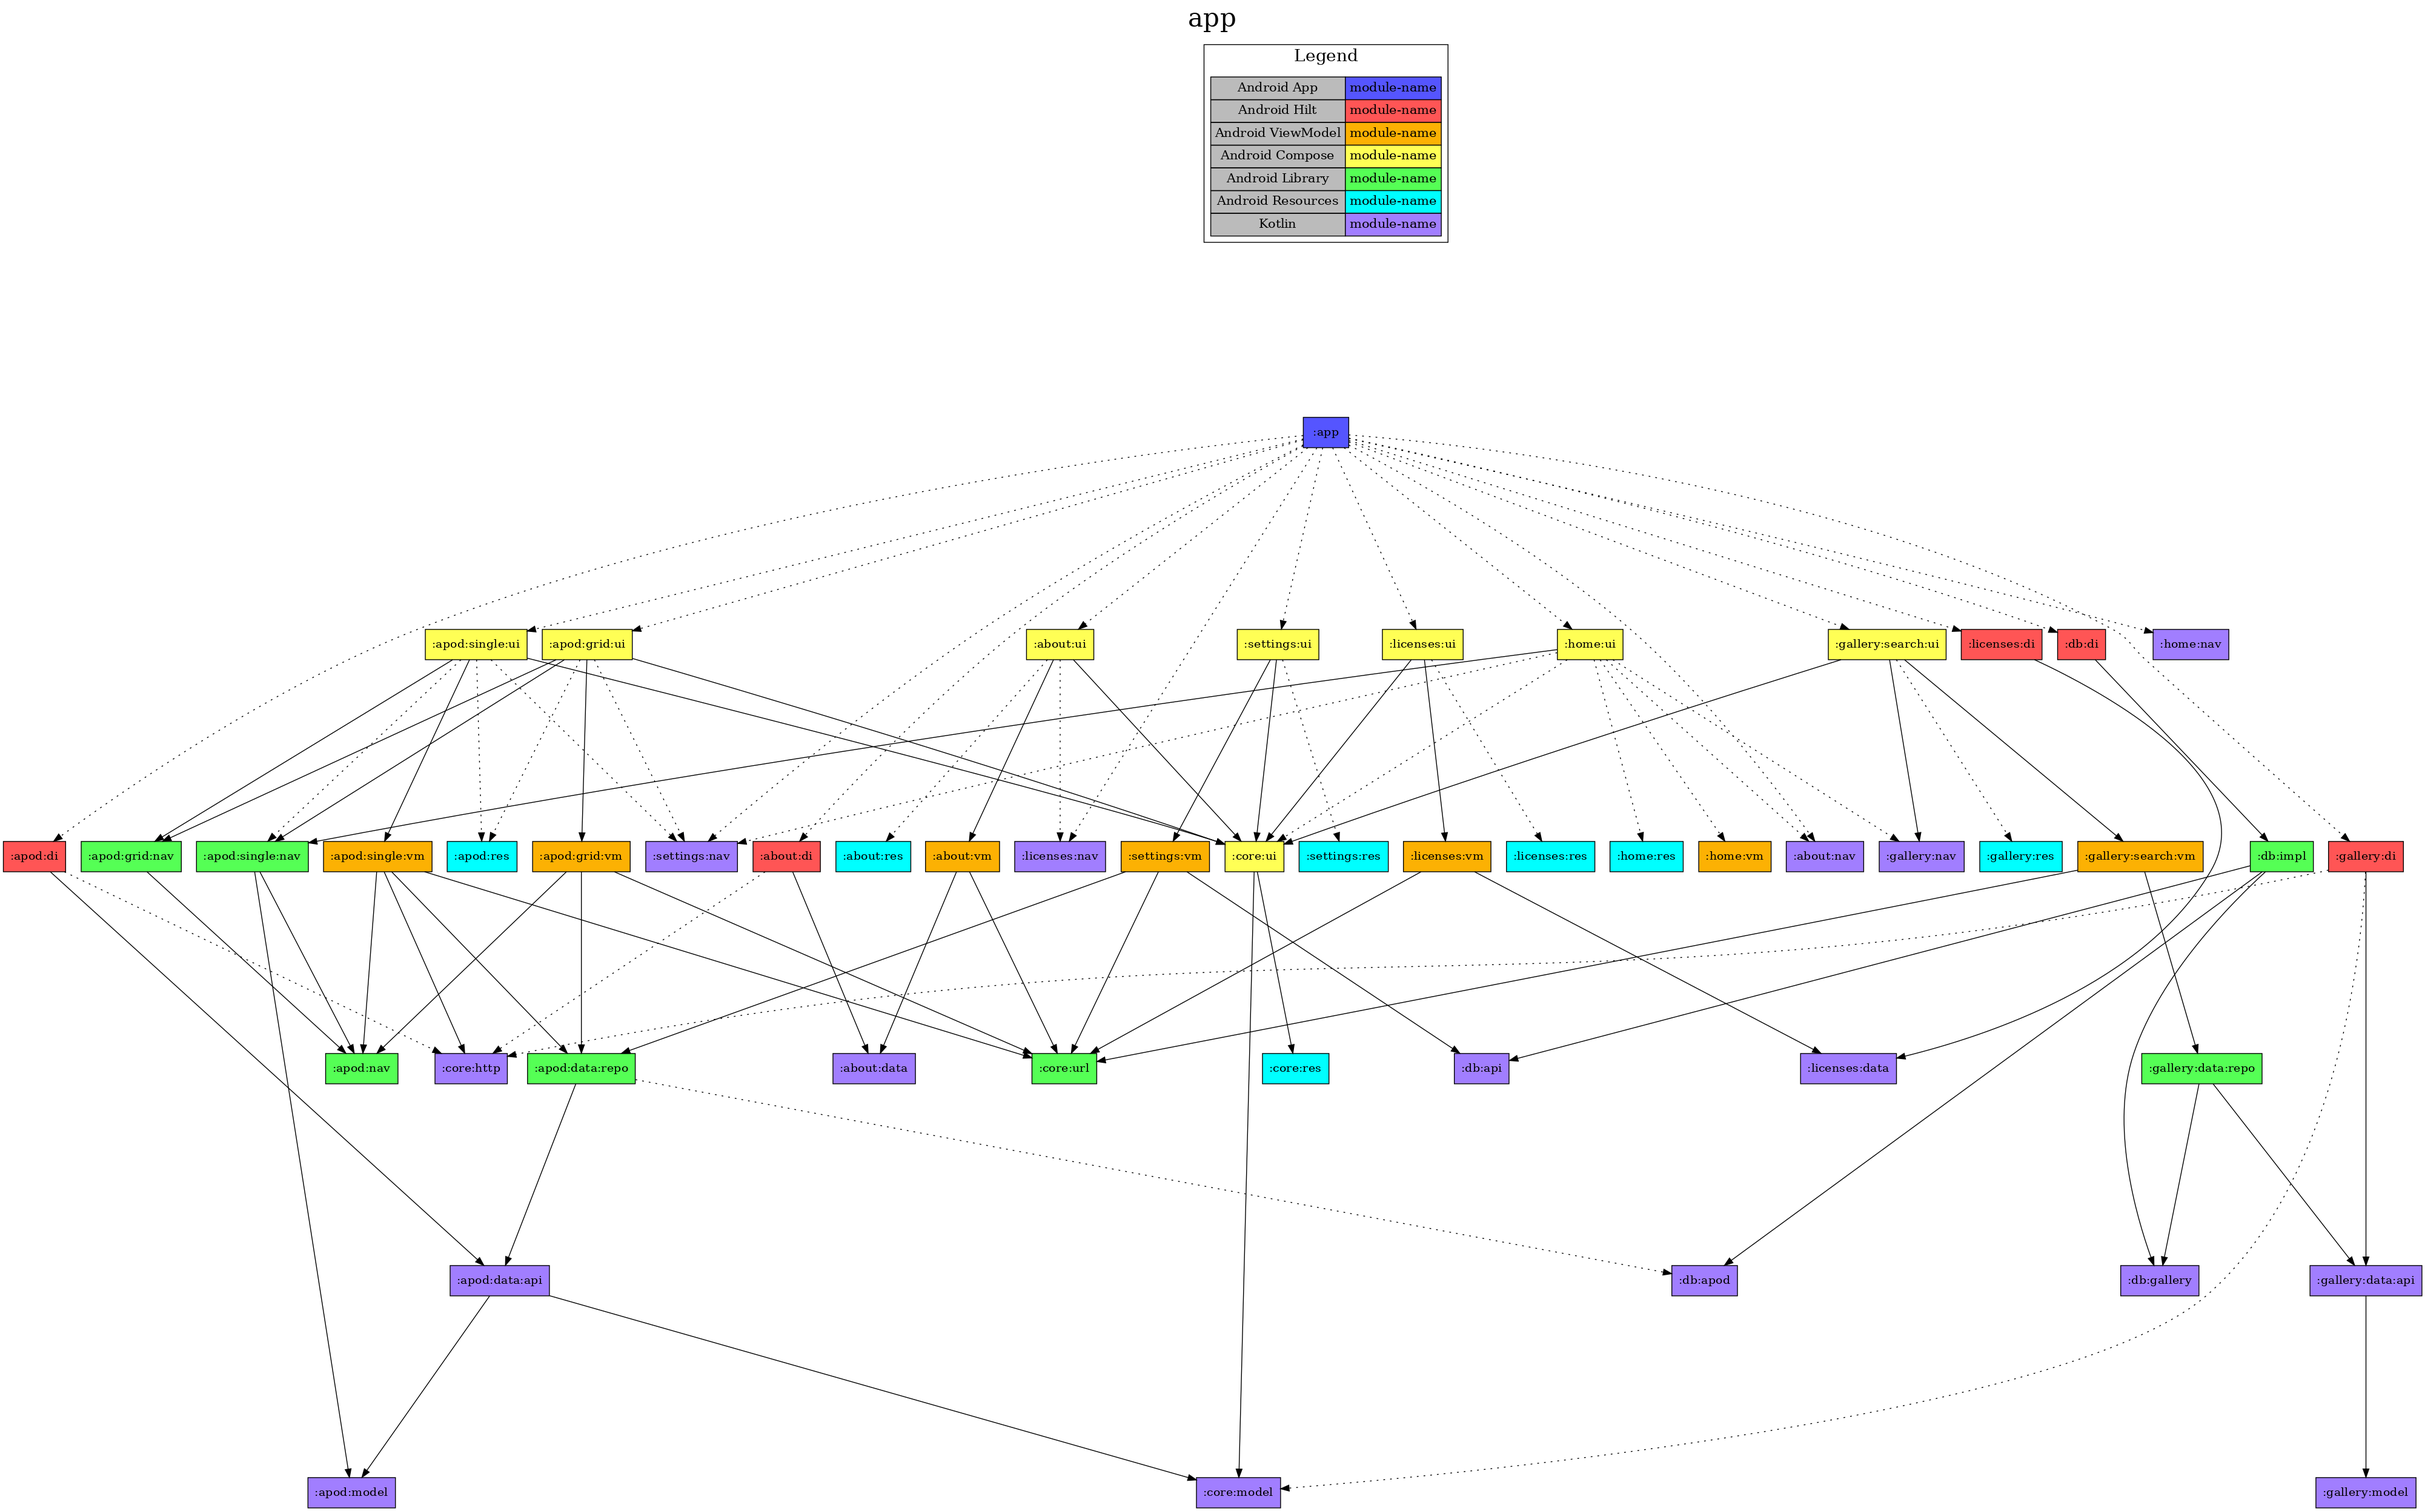
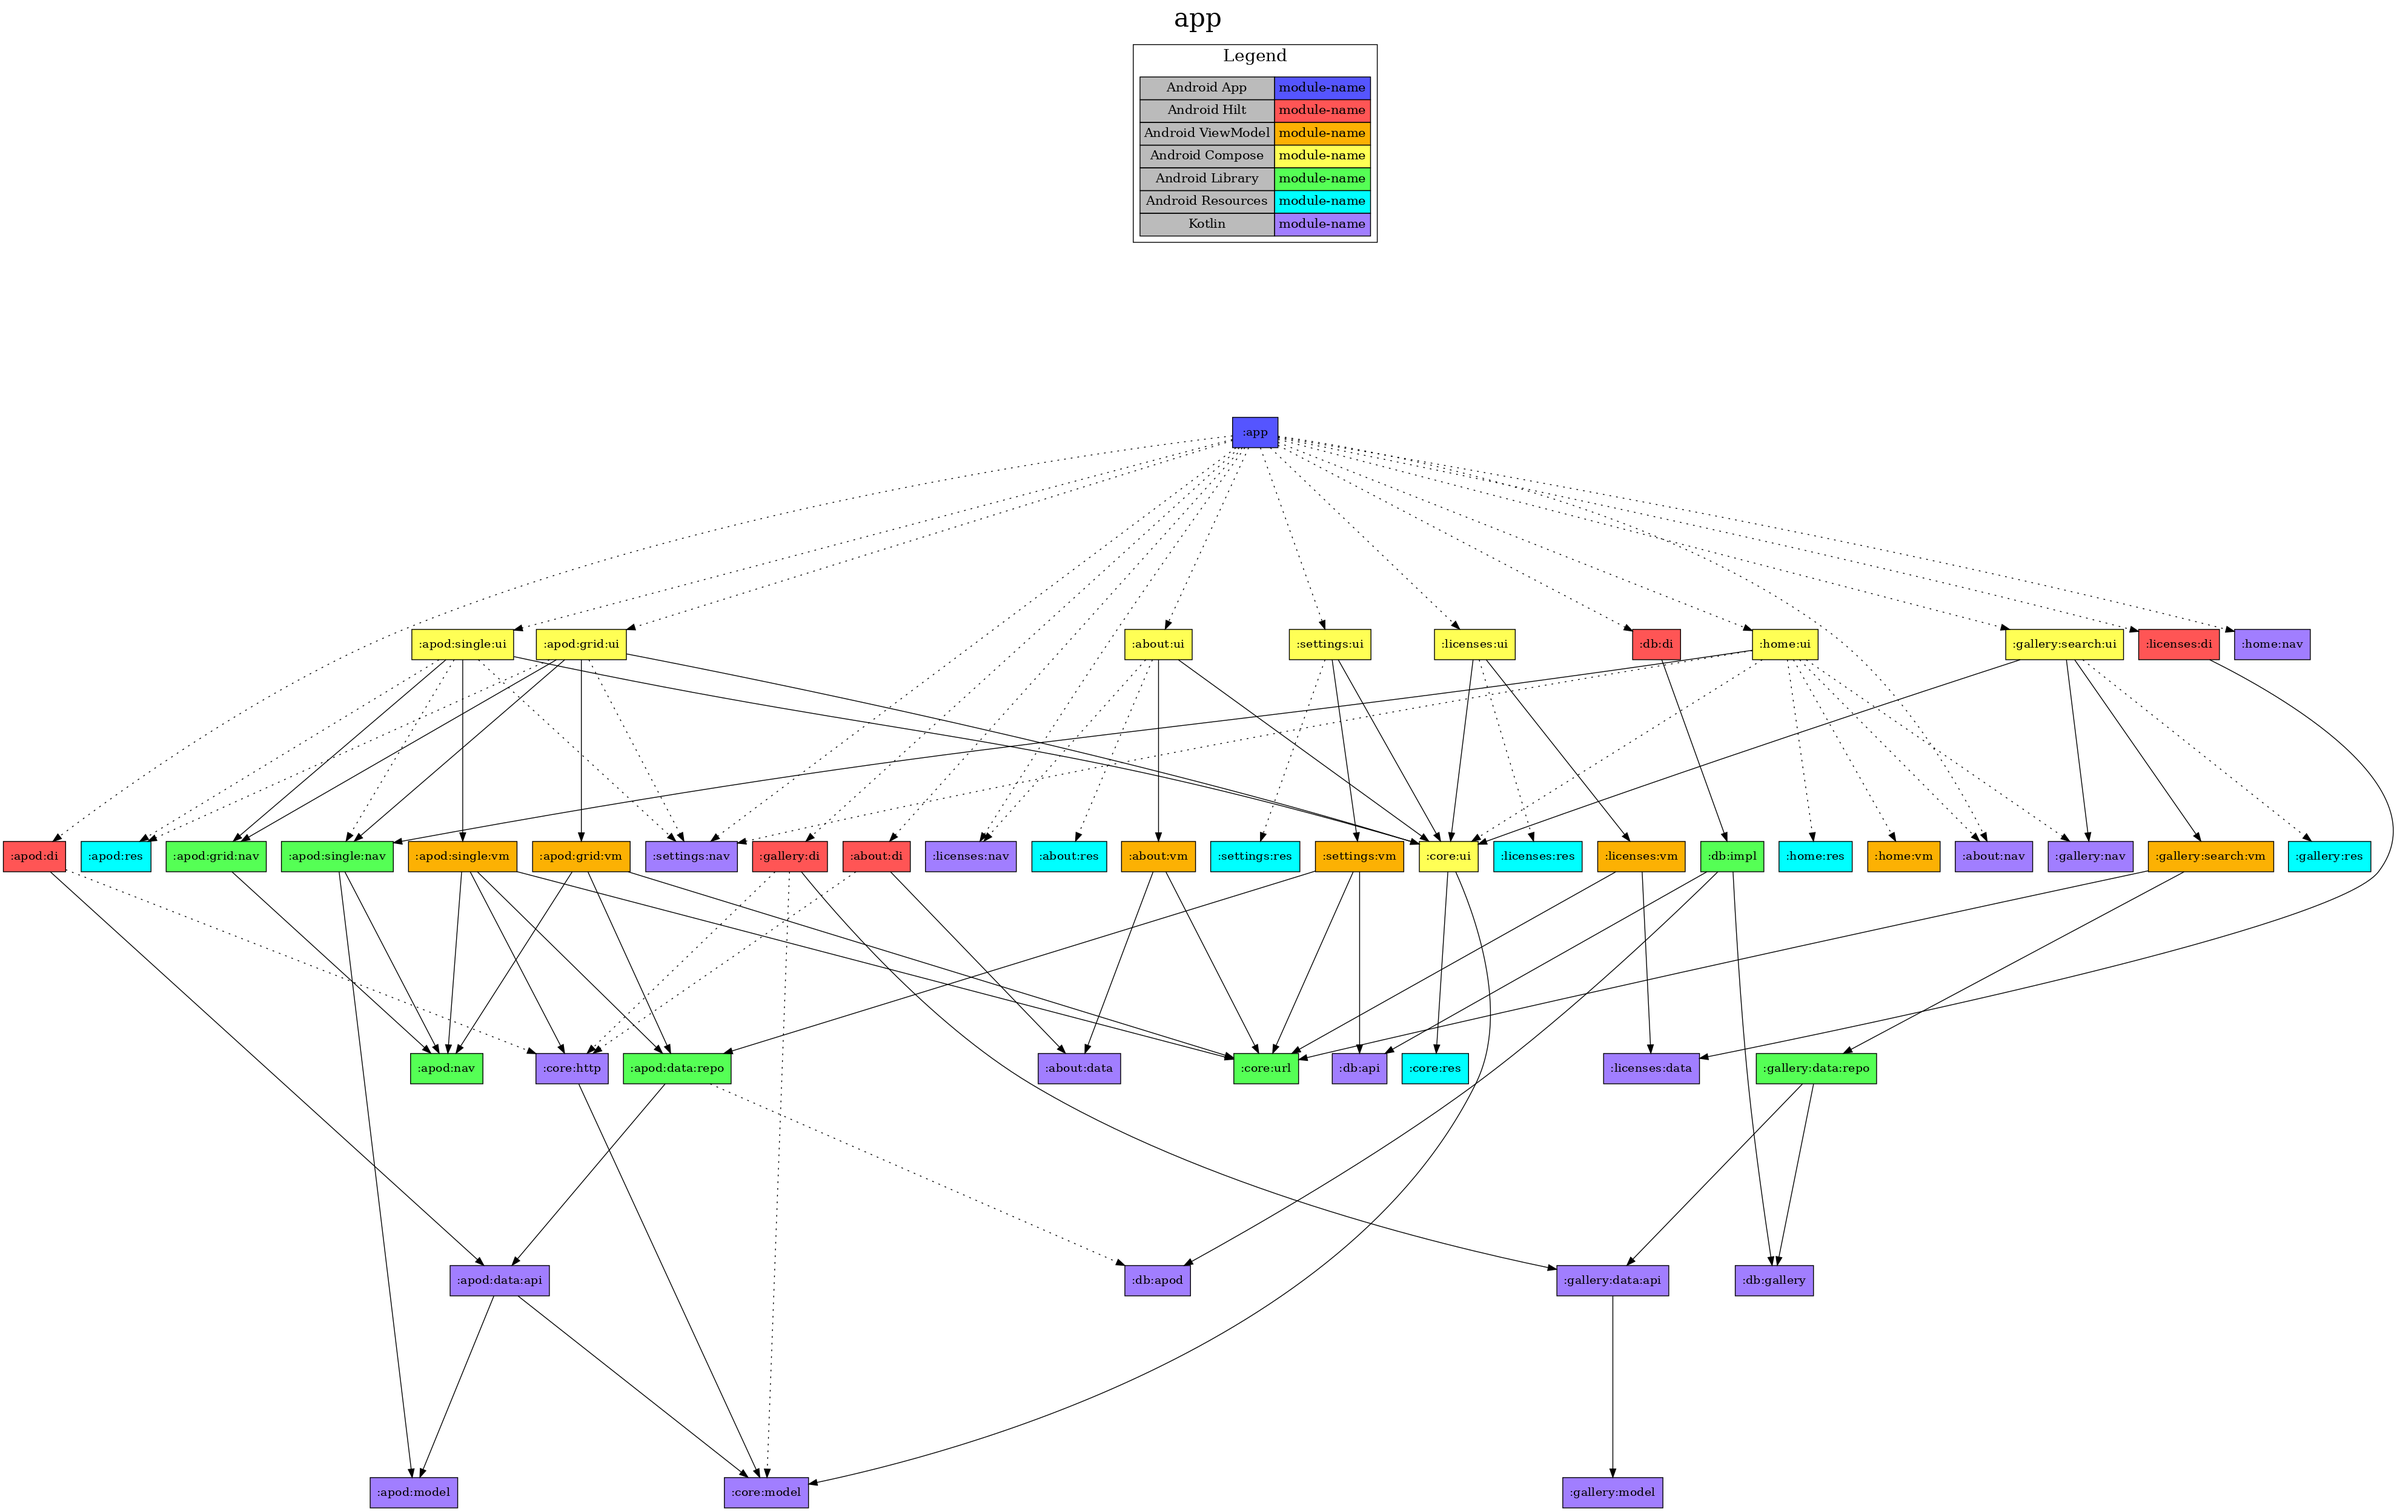
Cleanup

diff --git a/modules/apod/single/vm/src/test/kotlin/nasa/apod/single/vm/ApodFullScreenViewModelTest.kt b/modules/apod/single/vm/src/test/kotlin/nasa/apod/single/vm/ApodFullScreenViewModelTest.kt
@@ -5,6 +5,8 @@ import app.cash.turbine.test
 import kotlinx.coroutines.test.runTest
 import nasa.core.http.DownloadProgressStateHolder
 import nasa.core.http.DownloadState
+import nasa.core.model.FileSize
+import nasa.core.model.bytes
 import org.junit.Before
 import org.junit.Test
 import org.junit.runner.RunWith
@@ -27,23 +29,23 @@ class ApodFullScreenViewModelTest {
   @Test
   fun `Monitor download progress`() = runTest {
     viewModel.downloadProgress.test {
-      setDownloadState(read = 0L, total = 100L)
-      assertDownloadProgress(0f)
+      setInProgress(read = 0.bytes)
+      assertDownloadProgress(expected = 0f)
 
-      setDownloadState(read = 20L, total = 100L)
-      assertDownloadProgress(0.2f)
+      setInProgress(read = 20.bytes)
+      assertDownloadProgress(expected = 0.2f)
 
-      setDownloadState(read = 50L, total = 100L)
-      assertDownloadProgress(0.5f)
+      setInProgress(read = 50.bytes)
+      assertDownloadProgress(expected = 0.5f)
 
-      setDownloadState(read = 90L, total = 100L)
-      assertDownloadProgress(0.9f)
+      setInProgress(read = 90.bytes)
+      assertDownloadProgress(expected = 0.9f)
 
-      setDownloadState(read = 99L, total = 100L)
-      assertDownloadProgress(0.99f)
+      setInProgress(read = 99.bytes)
+      assertDownloadProgress(expected = 0.99f)
 
-      setDownloadState(read = 100L, total = 100L, done = true)
-      assertDownloadProgress(1f)
+      setDone()
+      assertDownloadProgress(expected = 1f)
       cancelAndIgnoreRemainingEvents()
     }
   }
@@ -52,14 +54,26 @@ class ApodFullScreenViewModelTest {
     assertEquals(expected, awaitItem())
   }
 
-  private fun setDownloadState(read: Long, total: Long, done: Boolean = false) {
+  private fun setInProgress(read: FileSize) {
     stateHolder.set(
-      DownloadState(
+      DownloadState.InProgress(
         url = "some.url.com/whocares",
-        bytesRead = read,
-        contentLength = total,
-        done = done,
+        read = read,
+        total = DOWNLOAD_SIZE,
       ),
     )
+  }
+
+  private fun setDone() {
+    stateHolder.set(
+      DownloadState.Done(
+        url = "some.url.com/whocares",
+        total = DOWNLOAD_SIZE,
+      ),
+    )
+  }
+
+  private companion object {
+    val DOWNLOAD_SIZE = 100.bytes
   }
 }

diff --git a/modules/settings/ui/src/main/kotlin/nasa/settings/ui/SettingsScreenImpl.kt b/modules/settings/ui/src/main/kotlin/nasa/settings/ui/SettingsScreenImpl.kt
@@ -40,15 +40,15 @@ import nasa.core.ui.color.Theme
 import nasa.core.ui.preview.PreviewScreen
 import nasa.core.ui.preview.ScreenPreview
 import nasa.settings.res.R
-import nasa.settings.vm.FileSize
-import nasa.settings.vm.kilobytes
-import nasa.settings.vm.megabytes
+import nasa.core.model.FileSize
+import nasa.core.model.kilobytes
+import nasa.core.model.megabytes
 
 @Composable
 internal fun SettingsScreenImpl(
-  imagesSize: FileSize,
-  databaseSize: FileSize,
-  onAction: (SettingsAction) -> Unit,
+    imagesSize: FileSize,
+    databaseSize: FileSize,
+    onAction: (SettingsAction) -> Unit,
 ) {
   val scrollBehavior = TopAppBarDefaults.enterAlwaysScrollBehavior(rememberTopAppBarState())
   val theme = LocalTheme.current
@@ -70,11 +70,11 @@ internal fun SettingsScreenImpl(
 
 @Composable
 private fun SettingsScreenContent(
-  imagesSize: FileSize,
-  databaseSize: FileSize,
-  onAction: (SettingsAction) -> Unit,
-  modifier: Modifier = Modifier,
-  theme: Theme = LocalTheme.current,
+    imagesSize: FileSize,
+    databaseSize: FileSize,
+    onAction: (SettingsAction) -> Unit,
+    modifier: Modifier = Modifier,
+    theme: Theme = LocalTheme.current,
 ) {
   val preferences = rememberSharedPreferences()
 
@@ -158,10 +158,10 @@ private fun themeEntries() = persistentListOf(
 
 @Composable
 private fun CachedImagesText(
-  images: FileSize,
-  database: FileSize,
-  modifier: Modifier = Modifier,
-  theme: Theme = LocalTheme.current,
+    images: FileSize,
+    database: FileSize,
+    modifier: Modifier = Modifier,
+    theme: Theme = LocalTheme.current,
 ) {
   Column(
     modifier = modifier,

diff --git a/modules/settings/ui/src/main/kotlin/nasa/settings/ui/ConfirmClearCacheDialog.kt b/modules/settings/ui/src/main/kotlin/nasa/settings/ui/ConfirmClearCacheDialog.kt
@@ -13,16 +13,16 @@ import nasa.core.ui.color.Theme
 import nasa.core.ui.dialog.DialogContent
 import nasa.core.ui.preview.PreviewColumn
 import nasa.settings.res.R
-import nasa.settings.vm.FileSize
-import nasa.settings.vm.megabytes
+import nasa.core.model.FileSize
+import nasa.core.model.megabytes
 
 @Composable
 internal fun ConfirmClearCacheDialog(
-  totalSize: FileSize,
-  onConfirm: () -> Unit,
-  onCancel: () -> Unit,
-  modifier: Modifier = Modifier,
-  theme: Theme = LocalTheme.current,
+    totalSize: FileSize,
+    onConfirm: () -> Unit,
+    onCancel: () -> Unit,
+    modifier: Modifier = Modifier,
+    theme: Theme = LocalTheme.current,
 ) {
   BasicAlertDialog(
     modifier = modifier,
@@ -40,11 +40,11 @@ internal fun ConfirmClearCacheDialog(
 
 @Composable
 private fun ConfirmClearCacheDialogContent(
-  totalSize: FileSize,
-  onConfirm: () -> Unit,
-  onCancel: () -> Unit,
-  modifier: Modifier = Modifier,
-  theme: Theme = LocalTheme.current,
+    totalSize: FileSize,
+    onConfirm: () -> Unit,
+    onCancel: () -> Unit,
+    modifier: Modifier = Modifier,
+    theme: Theme = LocalTheme.current,
 ) {
   DialogContent(
     modifier = modifier,

diff --git a/modules/apod/single/vm/src/main/kotlin/nasa/apod/single/vm/ApodFullScreenViewModel.kt b/modules/apod/single/vm/src/main/kotlin/nasa/apod/single/vm/ApodFullScreenViewModel.kt
@@ -8,6 +8,7 @@ import kotlinx.coroutines.flow.StateFlow
 import kotlinx.coroutines.flow.map
 import kotlinx.coroutines.flow.stateIn
 import nasa.core.http.DownloadProgressStateHolder
+import nasa.core.http.DownloadState
 import timber.log.Timber
 import javax.inject.Inject
 
@@ -17,16 +18,17 @@ class ApodFullScreenViewModel @Inject internal constructor(
 ) : ViewModel() {
   val downloadProgress: StateFlow<Float> = stateHolder
     .state
-    .map { state ->
-      when {
-        state == null -> 0f
-        state.done -> 1f
-        else -> state.bytesRead.toFloat() / state.contentLength.toFloat()
-      }
-    }.stateIn(viewModelScope, SharingStarted.Eagerly, initialValue = 0f)
+    .map { it.toProgress() }
+    .stateIn(viewModelScope, SharingStarted.Eagerly, initialValue = 0f)
 
   override fun onCleared() {
     Timber.v("onCleared")
     stateHolder.reset()
+  }
+
+  private fun DownloadState?.toProgress(): Float = when (this) {
+    is DownloadState.Done -> 1f
+    is DownloadState.InProgress -> read.toBytes().toFloat() / total.toBytes().toFloat()
+    null -> 0f
   }
 }

diff --git a/modules/core/http/src/main/kotlin/nasa/core/http/DownloadProgressResponseBody.kt b/modules/core/http/src/main/kotlin/nasa/core/http/DownloadProgressResponseBody.kt
@@ -1,5 +1,6 @@
 package nasa.core.http
 
+import nasa.core.model.bytes
 import okhttp3.ResponseBody
 import okio.Buffer
 import okio.BufferedSource
@@ -30,7 +31,11 @@ internal class DownloadProgressResponseBody(
       // read() returns the number of bytes read, or -1 if this source is exhausted.
       val bytesRead = super.read(sink, byteCount)
       totalBytesRead += if (bytesRead != -1L) bytesRead else 0
-      val state = DownloadState(url, totalBytesRead, responseBody.contentLength(), done = bytesRead == -1L)
+      val state = if (bytesRead == -1L) {
+        DownloadState.Done(url, totalBytesRead.bytes)
+      } else {
+        DownloadState.InProgress(url, totalBytesRead.bytes, contentLength().bytes)
+      }
       stateHolder.set(state)
       return bytesRead
     }

diff --git a/modules/apod/nav/src/main/kotlin/nasa/apod/nav/ApodScreenConfig.kt b/modules/apod/nav/src/main/kotlin/nasa/apod/nav/ApodScreenConfig.kt
@@ -21,7 +21,7 @@ sealed interface ApodScreenConfig : Serializable {
   // The seed value is only used to ensure equals() and hashCode() return pseudo-unique values every time we create
   // a new screen - it's not referenced anywhere. There's probably a better way of doing this...
   data class Random(
-    val seed: Long = System.currentTimeMillis(),
+    private val seed: Long = System.currentTimeMillis(),
   ) : ApodScreenConfig
 
   // Needs custom serialization of [LocalDate] because it's not [Serializable]. Annoyingly I can't get serialization

diff --git a/modules/core/http/src/main/kotlin/nasa/core/http/DownloadState.kt b/modules/core/http/src/main/kotlin/nasa/core/http/DownloadState.kt
@@ -1,8 +1,19 @@
 package nasa.core.http
 
-data class DownloadState(
-  val url: String,
-  val bytesRead: Long,
-  val contentLength: Long,
-  val done: Boolean,
-)
+import nasa.core.model.FileSize
+
+sealed interface DownloadState {
+  val url: String
+  val total: FileSize
+
+  data class InProgress(
+    override val url: String,
+    val read: FileSize,
+    override val total: FileSize,
+  ) : DownloadState
+
+  data class Done(
+    override val url: String,
+    override val total: FileSize,
+  ) : DownloadState
+}

diff --git a/modules/settings/vm/src/main/kotlin/nasa/settings/vm/SettingsViewModel.kt b/modules/settings/vm/src/main/kotlin/nasa/settings/vm/SettingsViewModel.kt
@@ -11,7 +11,9 @@ import kotlinx.coroutines.flow.asStateFlow
 import kotlinx.coroutines.flow.stateIn
 import kotlinx.coroutines.flow.update
 import kotlinx.coroutines.launch
+import nasa.core.model.FileSize
 import nasa.core.model.NASA_API_URL
+import nasa.core.model.bytes
 import nasa.core.url.UrlOpener
 import javax.inject.Inject
 

diff --git a/modules/settings/vm/src/main/kotlin/nasa/settings/vm/DatabaseClearer.kt b/modules/settings/vm/src/main/kotlin/nasa/settings/vm/DatabaseClearer.kt
@@ -6,6 +6,8 @@ import kotlinx.coroutines.flow.StateFlow
 import kotlinx.coroutines.flow.asStateFlow
 import kotlinx.coroutines.flow.update
 import kotlinx.coroutines.withContext
+import nasa.core.model.FileSize
+import nasa.core.model.bytes
 import nasa.db.api.NasaDatabase
 import timber.log.Timber
 import javax.inject.Inject

diff --git a/app/src/main/kotlin/nasa/android/app/NasaApplication.kt b/app/src/main/kotlin/nasa/android/app/NasaApplication.kt
@@ -32,7 +32,7 @@ import nasa.licenses.nav.LicensesNavScreen
 import nasa.licenses.ui.LicensesScreen
 import nasa.settings.nav.SettingsNavScreen
 import nasa.settings.ui.SettingsScreen
-import nasa.settings.vm.megabytes
+import nasa.core.model.megabytes
 import timber.log.Timber
 import javax.inject.Inject
 

diff --git a/modules/gallery/search/vm/src/main/kotlin/nasa/gallery/search/vm/SearchViewModel.kt b/modules/gallery/search/vm/src/main/kotlin/nasa/gallery/search/vm/SearchViewModel.kt
@@ -23,12 +23,10 @@ class SearchViewModel @Inject internal constructor() : ViewModel() {
     // TBC
   }
 
-  @Suppress("UNUSED_PARAMETER")
   fun enterSearchTerm(text: String) {
     // TBC
   }
 
-  @Suppress("UNUSED_PARAMETER")
   fun setFilterConfig(config: FilterConfig) {
     // TBC
   }

diff --git a/modules/settings/vm/src/test/kotlin/nasa/settings/vm/ImageCacheTest.kt b/modules/settings/vm/src/test/kotlin/nasa/settings/vm/ImageCacheTest.kt
@@ -3,6 +3,7 @@ package nasa.settings.vm
 import android.content.Context
 import androidx.test.core.app.ApplicationProvider
 import kotlinx.coroutines.test.runTest
+import nasa.core.model.bytes
 import org.junit.Before
 import org.junit.Test
 import org.junit.runner.RunWith
